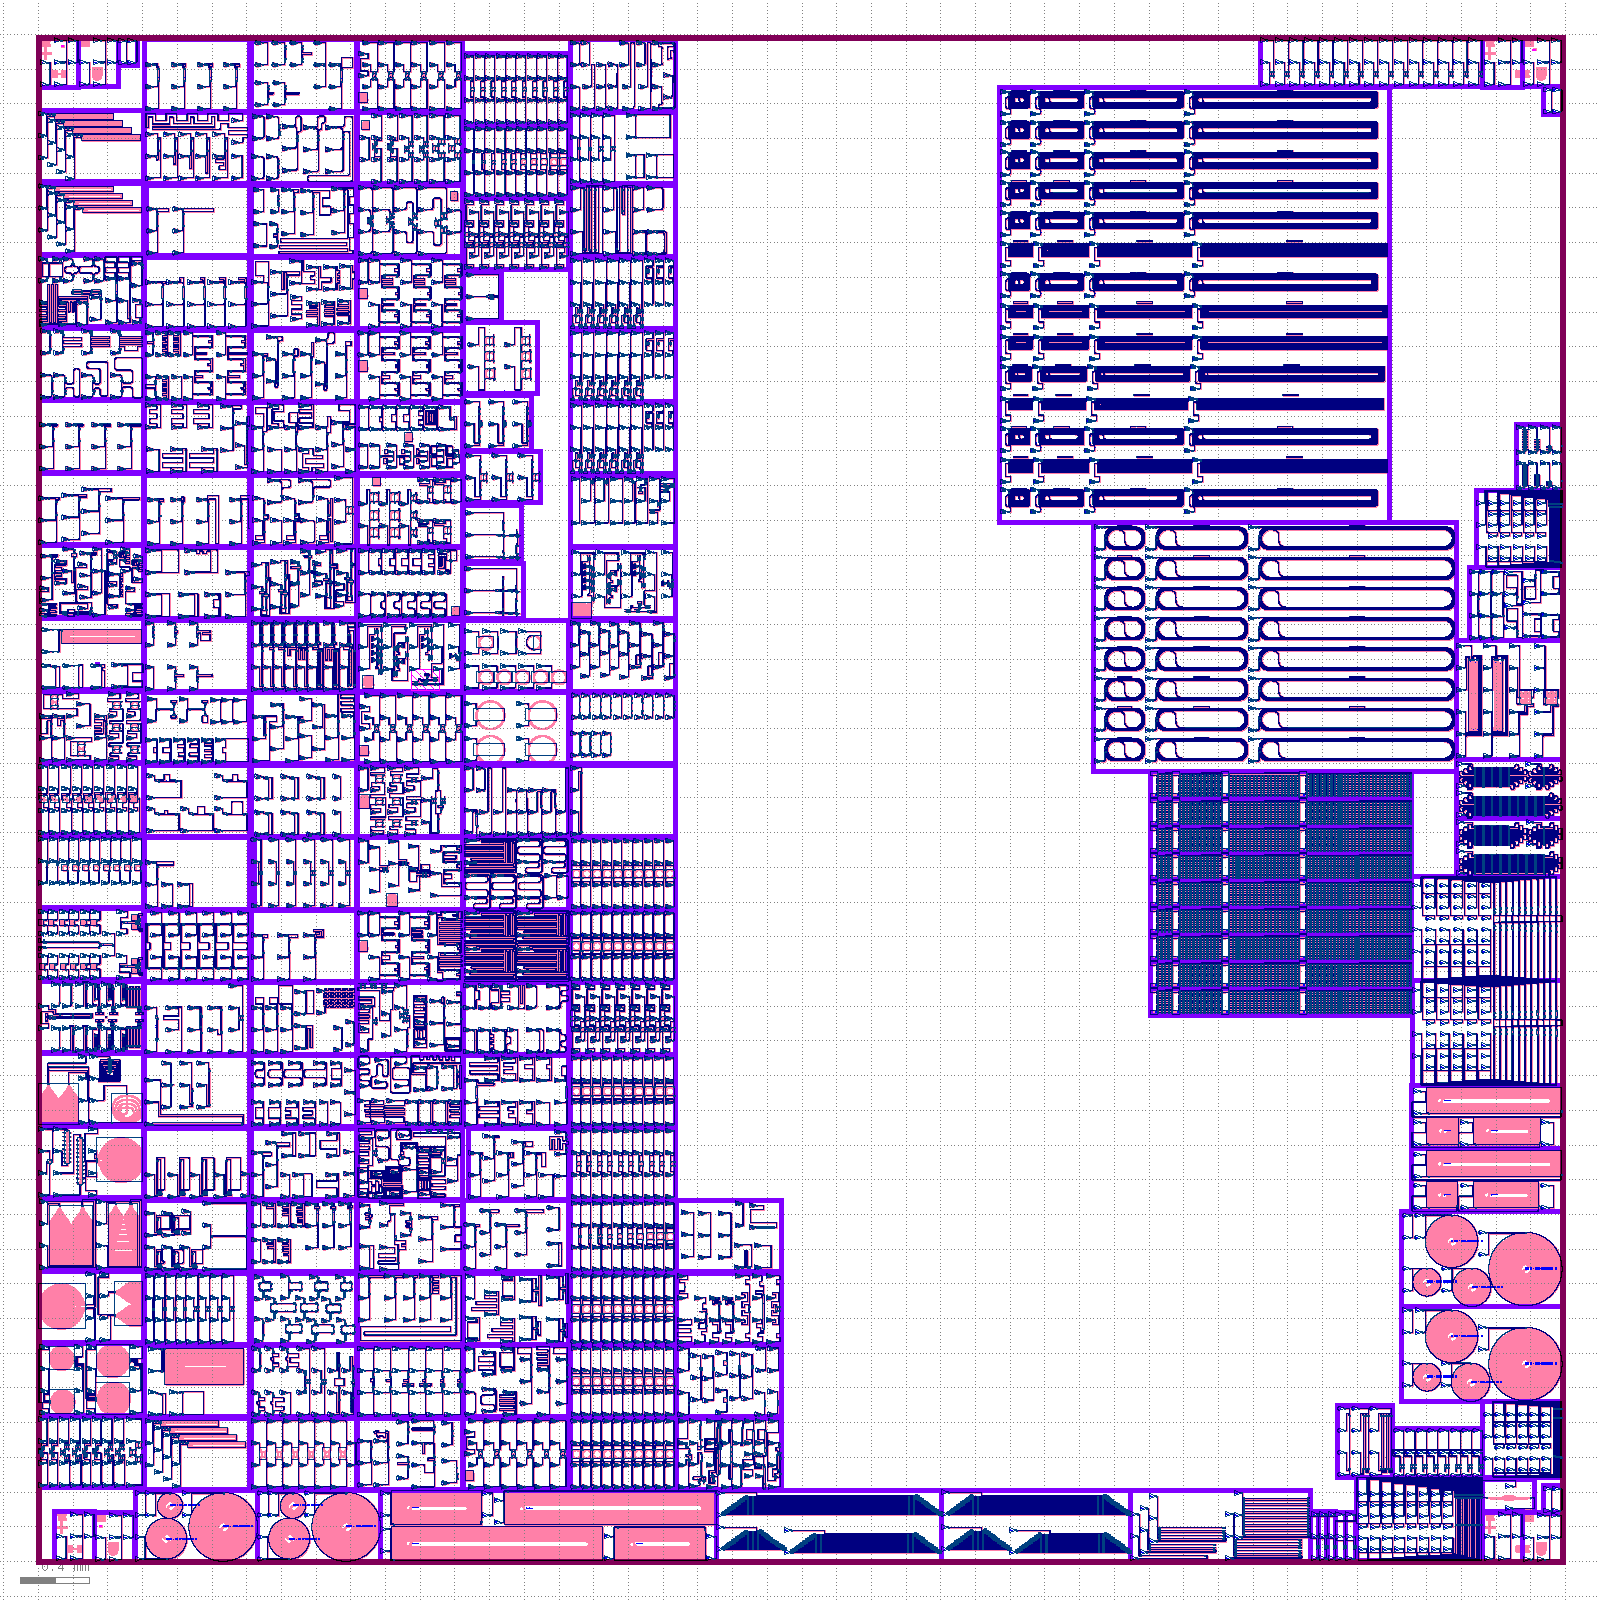
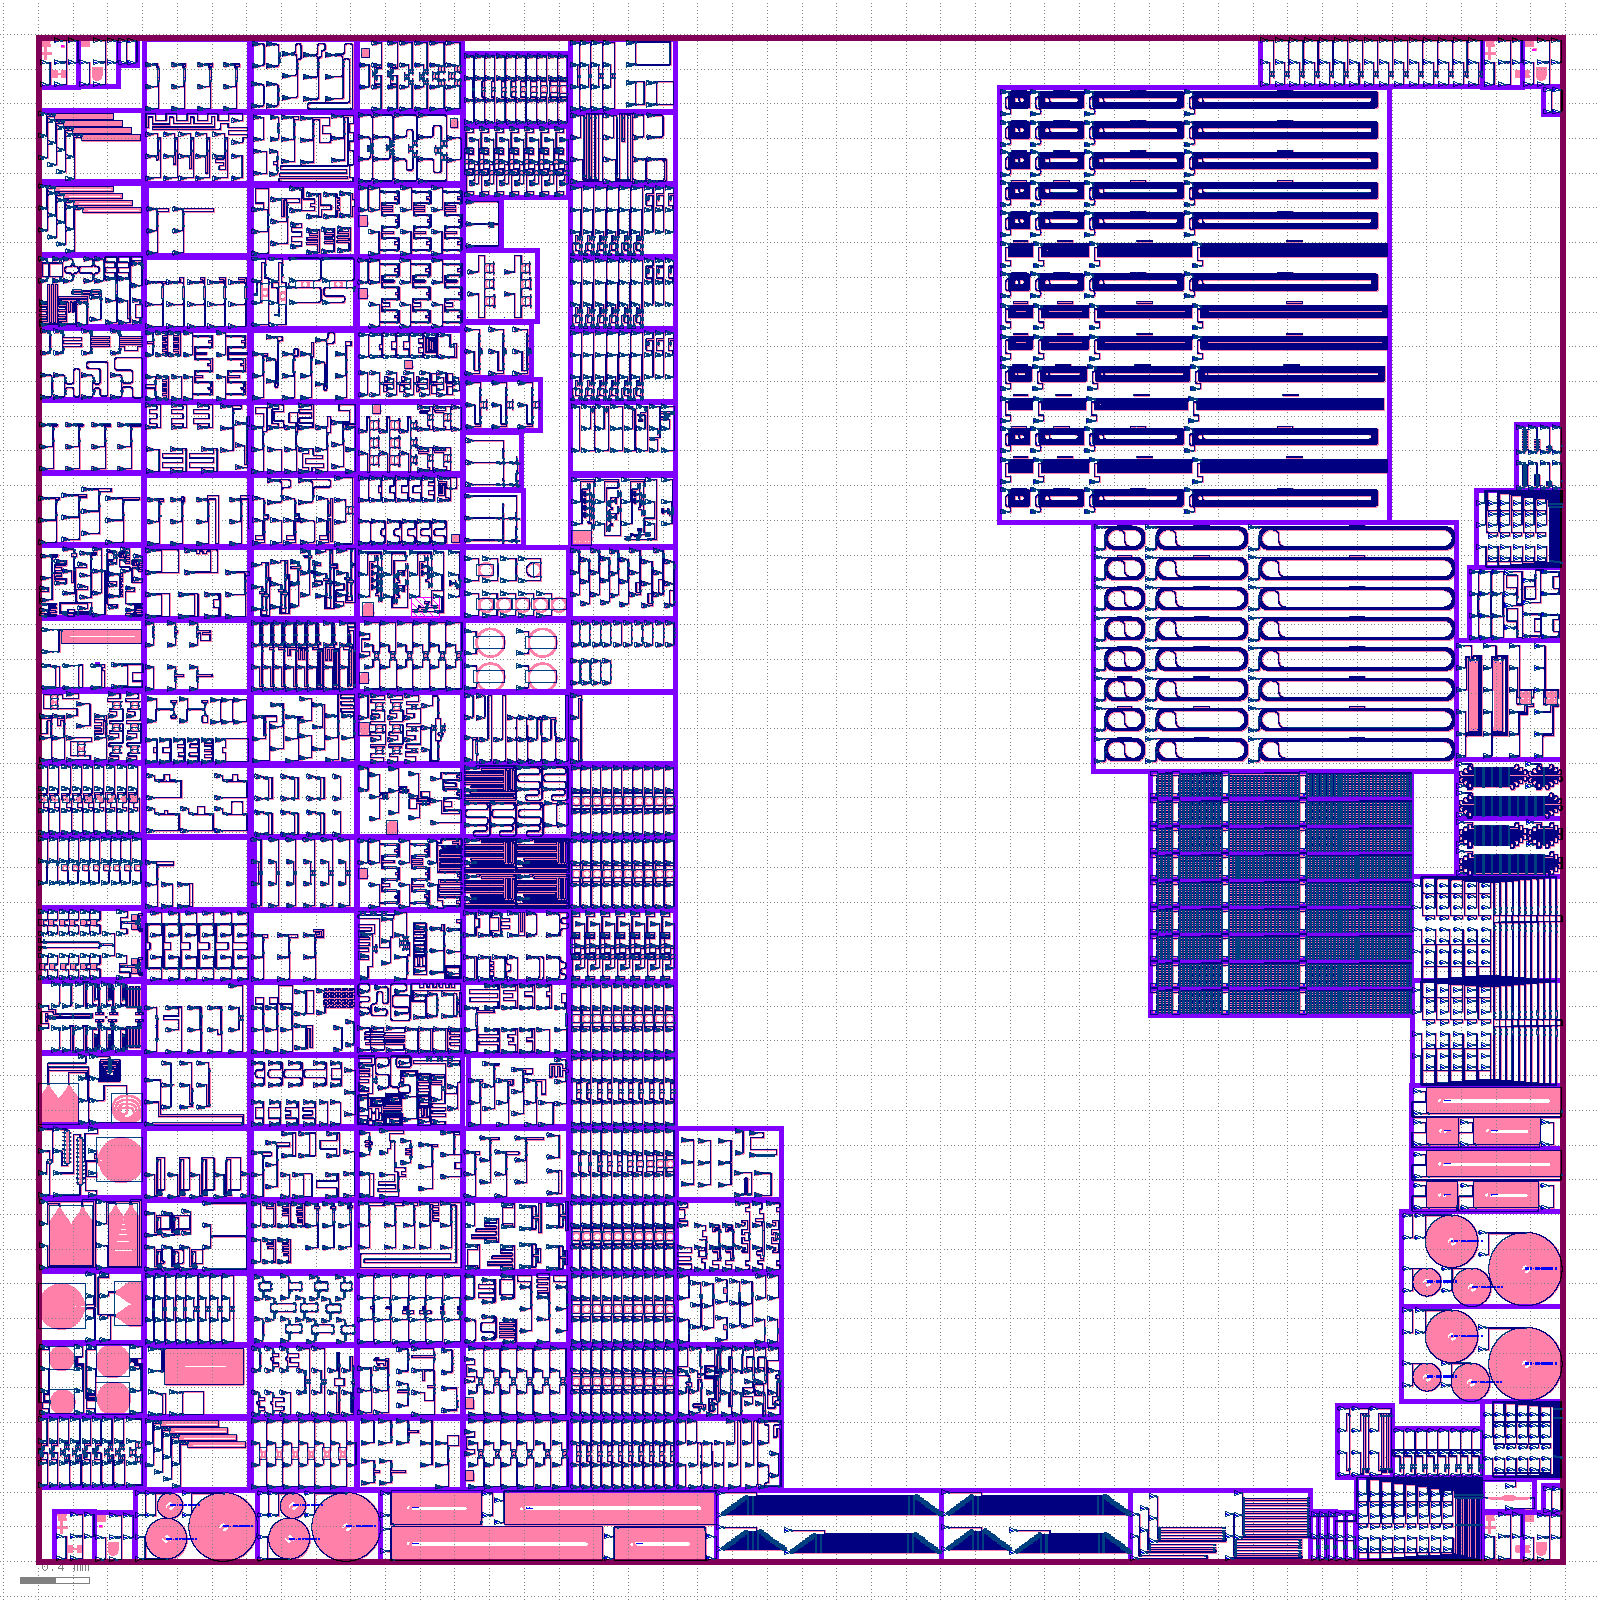
Aggregation layout: https://github.com/SiEPIC/openEBL-2026-05/actions/runs/25977652719/artifacts/7038140909

Changed region(s): [[0.1562, 0.0, 0.5, 0.9375]]

diff --git a/README.md b/README.md
@@ -91,5 +91,5 @@ Will be added here.
 
 Click on the following link to download the EBeam.oas merged layout file:
 <!-- start-link -->
-https://github.com/SiEPIC/openEBL-2026-05/actions/runs/25973756671/artifacts/7036968162
+https://github.com/SiEPIC/openEBL-2026-05/actions/runs/25977652719/artifacts/7038140909
 <!-- end-link -->